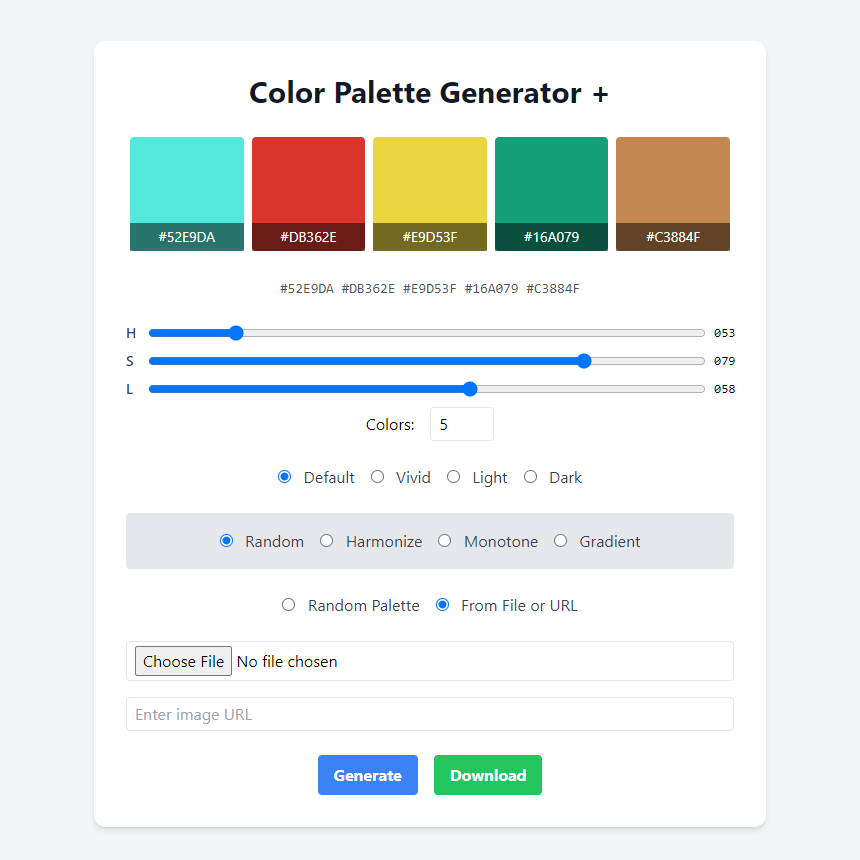
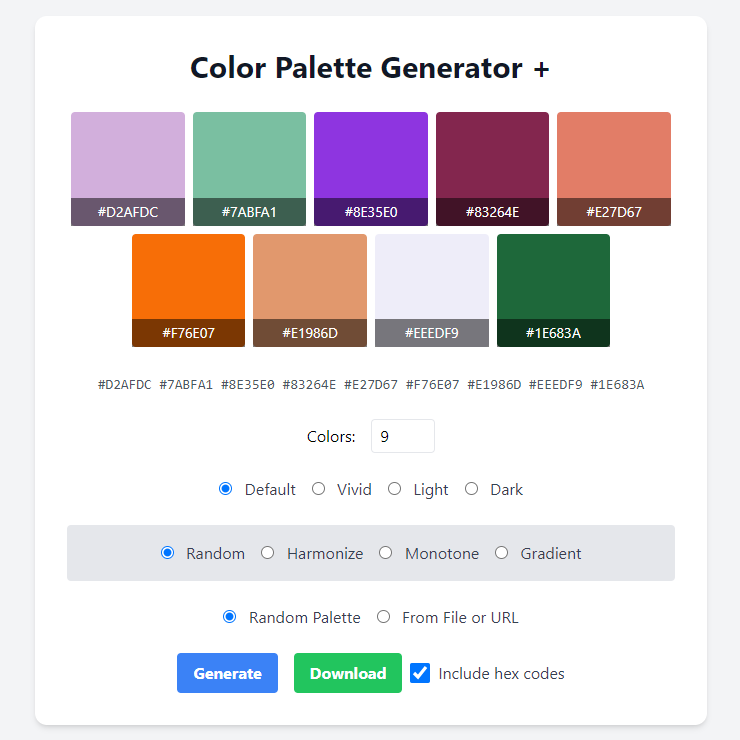
hex info

diff --git a/color-palette-generator-plus.html b/color-palette-generator-plus.html
@@ -112,9 +112,15 @@
                         <input type="text" id="imageUrl" placeholder="Enter image URL" class="border rounded px-2 py-1 w-full">
                     </div>
 
-                    <div class="text-center flex flex-wrap justify-center gap-4">
+                    <div class="text-center flex flex-wrap justify-center gap-4 items-center">
                         <button id="generateBtn" class="bg-blue-500 hover:bg-blue-600 text-white font-bold py-2 px-4 rounded">Generate</button>
-                        <button id="downloadBtn" class="bg-green-500 hover:bg-green-600 text-white font-bold py-2 px-4 rounded">Download</button>
+                        <div class="flex items-center">
+                            <button id="downloadBtn" class="bg-green-500 hover:bg-green-600 text-white font-bold py-2 px-4 rounded">Download</button>
+                            <label class="ml-2 flex items-center">
+                                <input type="checkbox" id="includeHexCodes" class="form-checkbox h-5 w-5 text-blue-600" checked>
+                                <span class="ml-2 text-gray-700">Include hex codes</span>
+                            </label>
+                        </div>
                     </div>
                 </div>
             </div>
@@ -415,6 +421,7 @@
         function downloadPalette() {
             const colors = Array.from(palette.children).map(child => child.style.backgroundColor);
             const colorCount = colors.length;
+            const includeHexCodes = document.getElementById('includeHexCodes').checked;
             
             // Calculate grid dimensions
             const gridSize = Math.ceil(Math.sqrt(colorCount));
@@ -438,13 +445,15 @@
                 ctx.fillStyle = color;
                 ctx.fillRect(col * cellSize, row * cellSize, cellSize, cellSize);
                 
-                // Add color hex code to each cell
-                const hex = rgbToHex(...color.match(/\d+/g).map(Number));
-                ctx.fillStyle = getContrastColor(color);
-                ctx.font = `${cellSize / 10}px Arial`;
-                ctx.textAlign = 'center';
-                ctx.textBaseline = 'middle';
-                ctx.fillText(hex, (col + 0.5) * cellSize, (row + 0.5) * cellSize);
+                // Add color hex code to each cell if checkbox is checked
+                if (includeHexCodes) {
+                    const hex = rgbToHex(...color.match(/\d+/g).map(Number));
+                    ctx.fillStyle = getContrastColor(color);
+                    ctx.font = `${cellSize / 10}px Arial`;
+                    ctx.textAlign = 'center';
+                    ctx.textBaseline = 'middle';
+                    ctx.fillText(hex, (col + 0.5) * cellSize, (row + 0.5) * cellSize);
+                }
             });
 
             const link = document.createElement('a');
